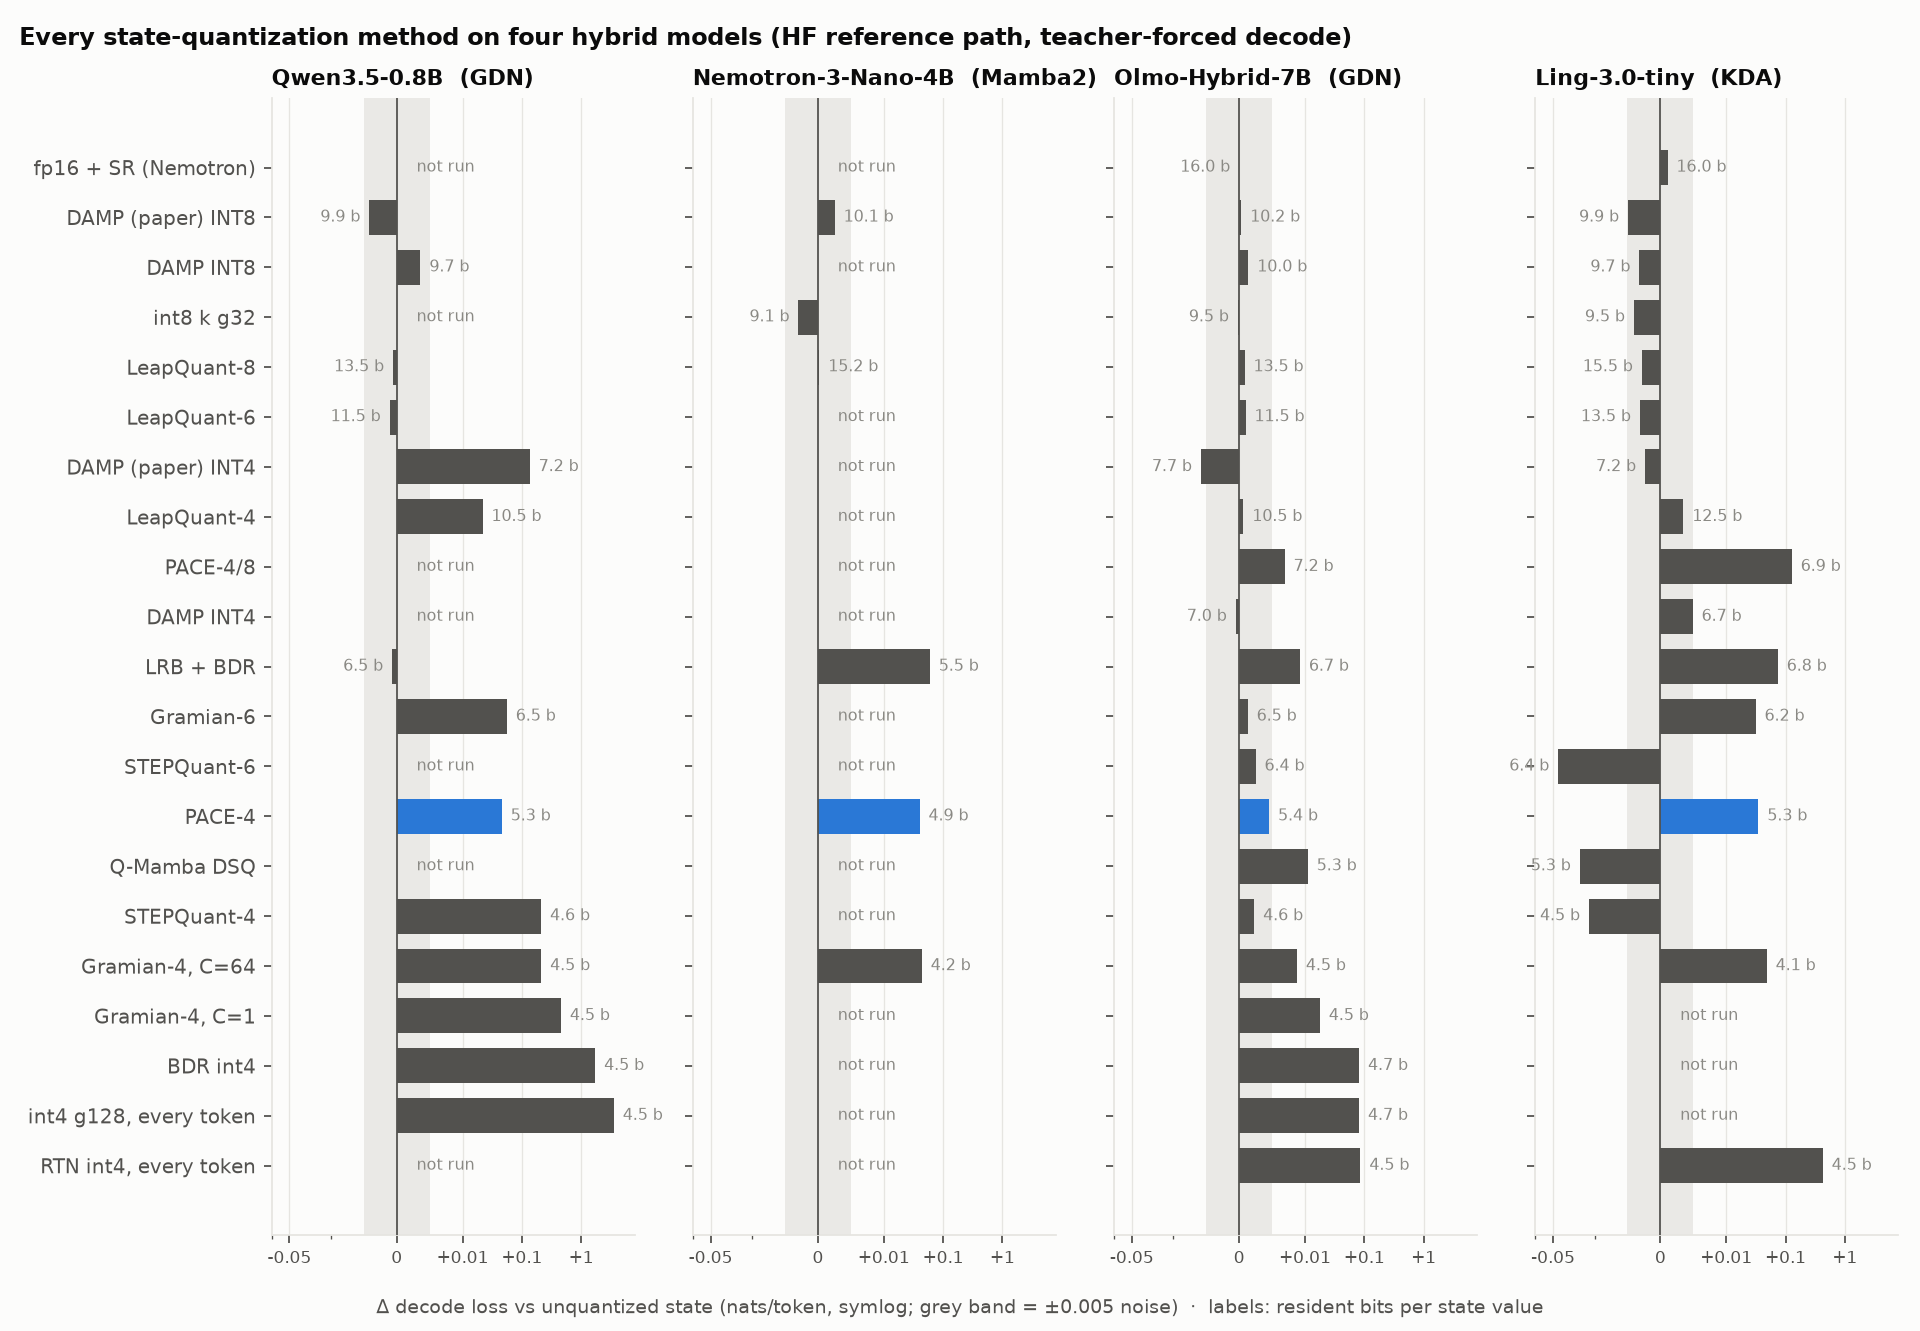
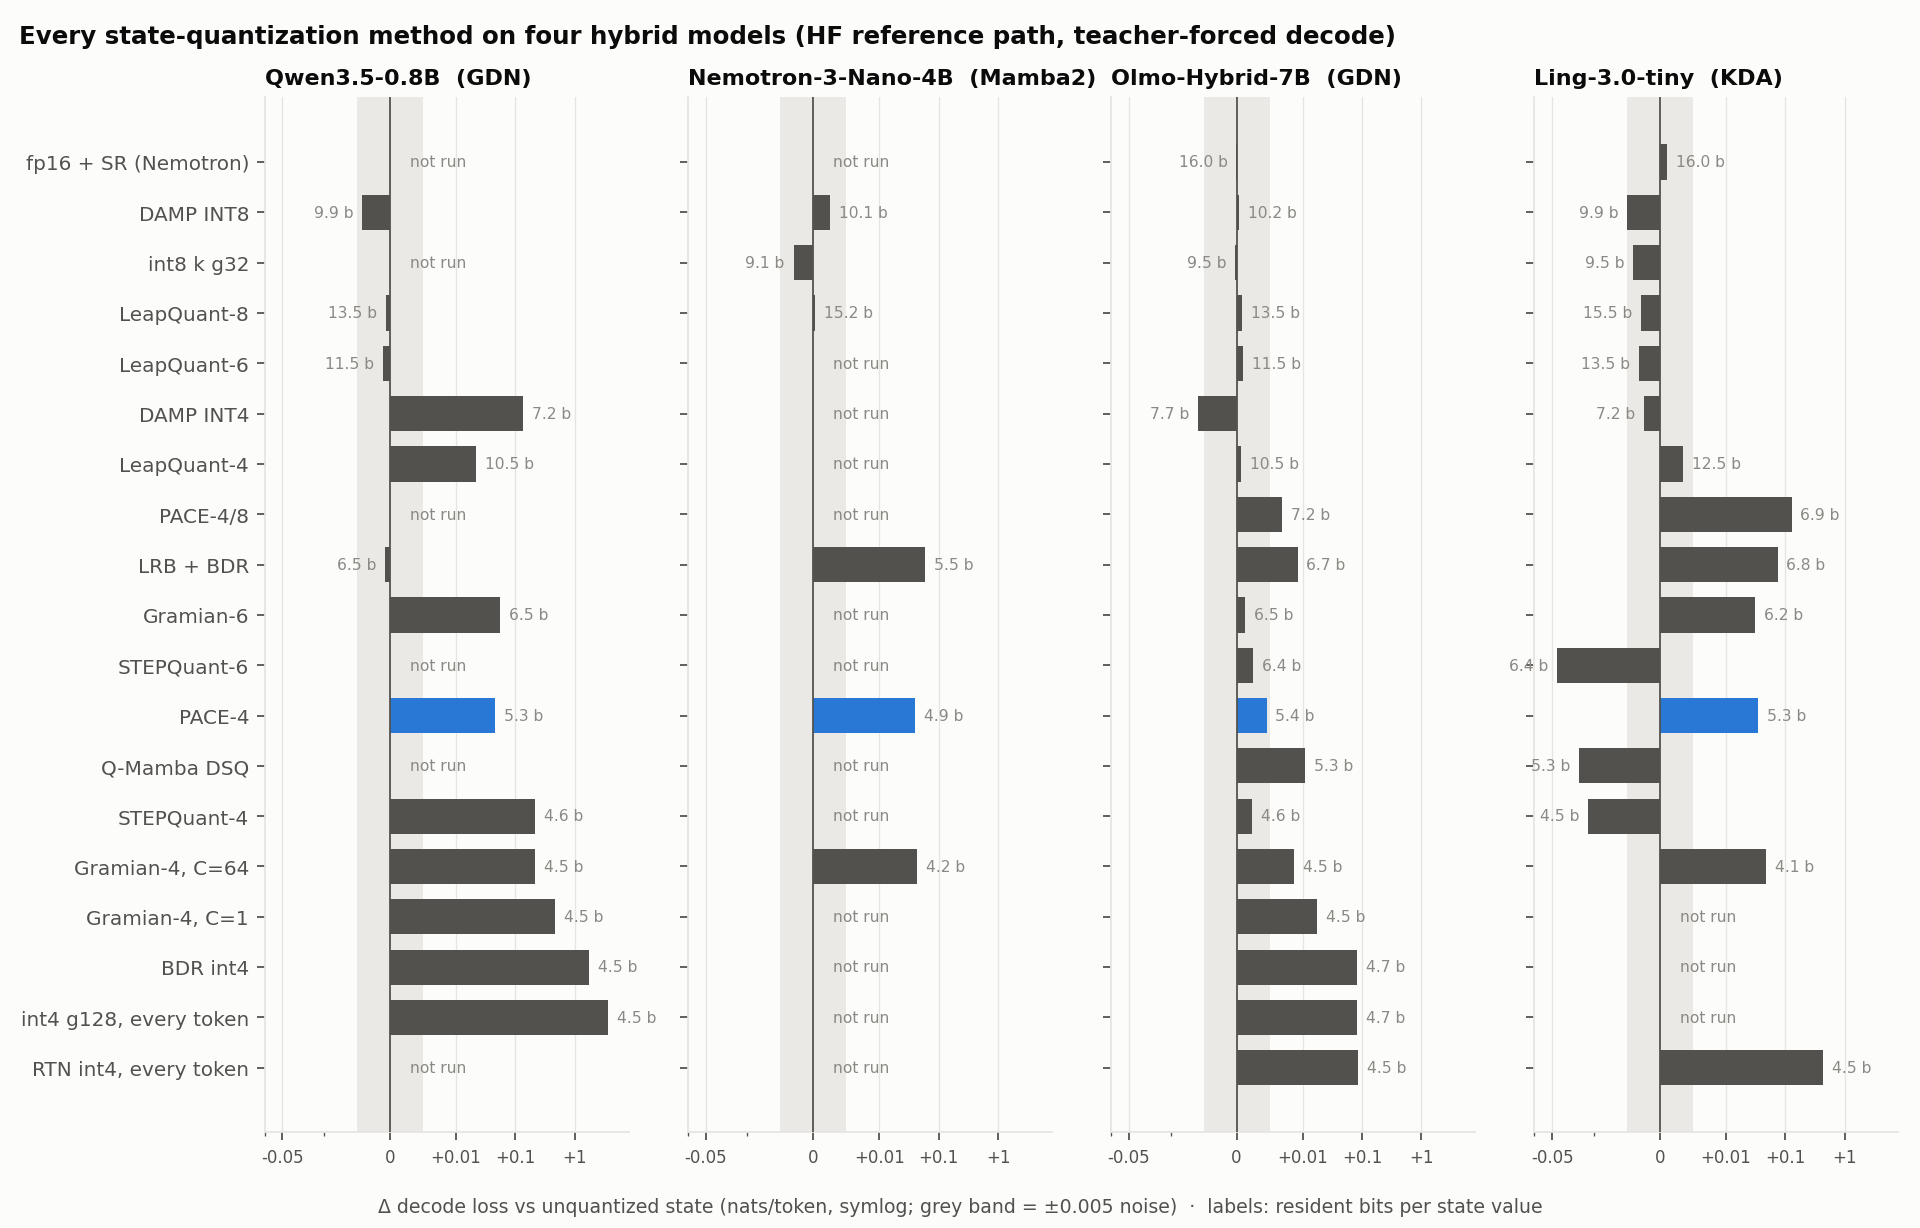
Remove the PACE-evaluation DAMP presets (damp_int8 / damp_int4); DAMP is damp_paper_int8 / damp_paper_int4
One interface per method: the harness configuration of DAMP used for the PACE tables was a second
DAMP preset next to the paper's recipe. ChannelProtect stays as a building block; the PACE oracle
test builds the harness configuration from it directly.

diff --git a/src/statequant/presets.py b/src/statequant/presets.py
@@ -15,7 +15,7 @@ prompt's keys/values, and calibration statistics are taken with the harness's ca
 """
 from __future__ import annotations
 
-from .methods import DSQ, ChannelProtect, HeadMix, Uniform
+from .methods import DSQ, HeadMix, Uniform
 from .quantizer import FloatCast, Identity, Quantizer
 from .schedule import Schedule, per_token
 from .step_quant import StepQuant
@@ -62,28 +62,6 @@ def pace48(paper: bool = True, frac: float = 0.25):
     return _with(m, Schedule(prefill=256, decode=8, buffer_bits=4, buffer='k', buffer_in_prefill=paper))
 
 
-def damp_int8():
-    """DAMP INT8 as the PACE evaluation harness implements it (cell ``damp:8:256:g32:16:int:rtn:full`` at carry scope
-    ``damp``): 16 of 128 key channels per head in fp16, the rest affine int8 in 32-wide value-axis blocks with a
-    Hadamard rotation; prompt rounded per 256-token chunk, every generated token rounded. NOTE: this is not the DAMP
-    paper's recipe (arXiv 2608.27513 v2, App. A.1): there INT8 is symmetric with one fp32 scale and no zero point per
-    32 values, no rotation, plus calibrated value-dimension scaling and reordering ("SR") folded into the V/O
-    projections."""
-    lo = Quantizer(8, 'v', 32, affine=True, zero_point='int', rotation='hadamard')
-    m = ChannelProtect(lo, FloatCast('fp16'), k=16, cal_format=Quantizer(8, 'v', 32, affine=True, zero_point='fp'),
-                       name='DAMP INT8')
-    return _with(m, Schedule(prefill=256, decode=1, buffer_bits=0))
-
-
-def damp_int4(paper: bool = True):
-    """DAMP's construction at four bits on PACE's schedule (the like-for-like row of the paper): 32 key channels per
-    head at int8, rest int4. Paper cell ``damp:4:256:g32:32:int:rtn:full:hi8:buf8:dP8``."""
-    lo = Quantizer(4, 'v', 32, affine=True, zero_point='int', rotation='hadamard')
-    hi = Quantizer(8, 'v', 32, affine=True, zero_point='int', rotation='hadamard')
-    m = ChannelProtect(lo, hi, k=32, cal_format=Quantizer(4, 'v', 32, affine=True, zero_point='fp'), name='DAMP INT4')
-    return _with(m, Schedule(prefill=256, decode=8, buffer_bits=8, buffer='kv', buffer_in_prefill=paper))
-
-
 def qmamba_dsq(paper: bool = True, decode: int = 8):
     """Q-Mamba's DSQ quantizer (without its fine-tuning). Q-Mamba rounds every write (decode=1); the paper row runs it
     on PACE's schedule. Paper cell ``dsq:4:256:dP8:buf8``."""
@@ -109,8 +87,7 @@ def stepquant(bits: int = 4, pivots: int | None = None, prefill: str = 'token', 
     return _with(StepQuant(bits, pivots), sch)
 
 
-PRESETS = {'fp32': full_precision, 'rtn': rtn, 'pace4': pace4, 'pace48': pace48, 'damp_int8': damp_int8,
-           'damp_int4': damp_int4, 'qmamba_dsq': qmamba_dsq, 'nemotron': nemotron,
+PRESETS = {'fp32': full_precision, 'rtn': rtn, 'pace4': pace4, 'pace48': pace48, 'qmamba_dsq': qmamba_dsq, 'nemotron': nemotron,
            'stepquant4': lambda: stepquant(4), 'stepquant6': lambda: stepquant(6),
            'stepquant4_chunk': lambda: stepquant(4, prefill='chunk'),
            'stepquant6_chunk': lambda: stepquant(6, prefill='chunk')}

diff --git a/docs/figures/make_figures.py b/docs/figures/make_figures.py
@@ -22,15 +22,15 @@ MODELS = ['Qwen3.5-0.8B', 'Nemotron-3-Nano-4B', 'Olmo-Hybrid-7B', 'Ling-3.0-tiny
 FAMILY = {'Qwen3.5-0.8B': 'GDN', 'Qwen3.5-4B': 'GDN', 'Nemotron-3-Nano-4B': 'Mamba2', 'Olmo-Hybrid-7B': 'GDN',
           'Ling-3.0-tiny': 'KDA'}
 LABEL = {
-    'damp_paper_int8': 'DAMP (paper) INT8', 'damp_int8': 'DAMP INT8', 'leapquant8': 'LeapQuant-8', 'int8k': 'int8 k g32',
-    'leapquant6': 'LeapQuant-6', 'damp_paper_int4': 'DAMP (paper) INT4', 'leapquant4': 'LeapQuant-4',
-    'pace48': 'PACE-4/8', 'damp_int4': 'DAMP INT4', 'lrb_bdr': 'LRB + BDR', 'gramian6': 'Gramian-6',
+    'damp_paper_int8': 'DAMP INT8', 'leapquant8': 'LeapQuant-8', 'int8k': 'int8 k g32',
+    'leapquant6': 'LeapQuant-6', 'damp_paper_int4': 'DAMP INT4', 'leapquant4': 'LeapQuant-4',
+    'pace48': 'PACE-4/8', 'lrb_bdr': 'LRB + BDR', 'gramian6': 'Gramian-6',
     'stepquant6': 'STEPQuant-6', 'nemotron': 'fp16 + SR (Nemotron)', 'pace4': 'PACE-4', 'qmamba_dsq': 'Q-Mamba DSQ',
     'stepquant4': 'STEPQuant-4', 'gramian4_c64': 'Gramian-4, C=64', 'gramian4': 'Gramian-4, C=1',
     'bdr_int4': 'BDR int4', 'int4_g128': 'int4 g128, every token', 'rtn': 'RTN int4, every token',
 }
-ORDER = ['nemotron', 'damp_paper_int8', 'damp_int8', 'int8k', 'leapquant8', 'leapquant6', 'damp_paper_int4',
-         'leapquant4', 'pace48', 'damp_int4', 'lrb_bdr', 'gramian6', 'stepquant6', 'pace4', 'qmamba_dsq',
+ORDER = ['nemotron', 'damp_paper_int8', 'int8k', 'leapquant8', 'leapquant6', 'damp_paper_int4',
+         'leapquant4', 'pace48', 'lrb_bdr', 'gramian6', 'stepquant6', 'pace4', 'qmamba_dsq',
          'stepquant4', 'gramian4_c64', 'gramian4', 'bdr_int4', 'int4_g128', 'rtn']
 LINTHRESH, NOISE = 0.01, 0.005
 

diff --git a/src/statequant/__init__.py b/src/statequant/__init__.py
@@ -1,7 +1,7 @@
 """statequant: recurrent-state quantization for gated-delta (linear attention / hybrid) language models.
 
     import statequant as sq
-    q = sq.pace48()                          # or sq.pace4(), sq.damp_int8(), sq.qmamba_dsq(), sq.nemotron(), sq.rtn(4),
+    q = sq.pace48()                          # or sq.pace4(), sq.damp_paper_int8(), sq.qmamba_dsq(), sq.nemotron(), sq.rtn(4),
                                              # sq.stepquant(4)
     sq.calibrate(model, q, calib_ids)        # only methods with a fitted allocation need this
     with sq.apply(model, q):                 # the method's own schedule; or sq.apply(model, q, sq.Schedule(...))
@@ -13,7 +13,7 @@ schedules (Schedule, per_token, periodic).
 """
 from .methods import DSQ, ChannelProtect, HeadMix, StateQuantizer, Uniform, as_method
 from .patch import apply, calibrate, find_layers, layer_families, set_positions
-from .presets import (PRESETS, damp_int4, damp_int8, full_precision, nemotron, pace4, pace48, qmamba_dsq, rtn,
+from .presets import (PRESETS, full_precision, nemotron, pace4, pace48, qmamba_dsq, rtn,
                       stepquant)
 from .step_quant import StepQuant
 from . import methods_ext  # noqa: F401  (BDR/LRB, LeapQuant, GramianAlloc, DampPaper)

diff --git a/tests/test_vs_pace.py b/tests/test_vs_pace.py
@@ -90,7 +90,8 @@ def _feed(cal_ref, ours, n=6):
 
 def test_damp_scores_and_masks():
     cal = damp.DampCalibrator(8)                     # default: zp fp, value axis, no rotation
-    q = sq.damp_int8()
+    q = sq.ChannelProtect(sq.Quantizer(8, 'v', 32, affine=True, zero_point='int', rotation='hadamard'),
+                          sq.FloatCast('fp16'), k=16, cal_format=sq.Quantizer(8, 'v', 32, affine=True, zero_point='fp'))
     _feed(cal, q)
     for layer in range(2):
         ref = damp.protect_mask(cal.scores(layer, 128), 16, 'per_head')
@@ -114,5 +115,4 @@ def test_bits_accounting():
     assert sq.Quantizer(4, 'k', 32, affine=True).bits_per_value(128, 128) == 4.625          # paper: 4.625 / 8.75
     assert sq.Quantizer(8, 'k', 32, affine=True).bits_per_value(128, 128) == 8.75
     m = sq.pace48()
-    assert m.bits_per_value(128, 128) == 0.25 * 8.75 + 0.75 * 4.625                       # 5.656, = DAMP INT4
-    assert abs(sq.damp_int4().bits_per_value(128, 128) - 5.65625) < 1e-9
+    assert m.bits_per_value(128, 128) == 0.25 * 8.75 + 0.75 * 4.625                       # 5.656

diff --git a/examples/presets_loss.py b/examples/presets_loss.py
@@ -50,7 +50,7 @@ def main():
     p.add_argument('--decode-windows', type=int, default=0, help='windows for the decode loss (0: skip)')
     p.add_argument('--prompt', type=int, default=512)
     p.add_argument('--decode', type=int, default=512)
-    p.add_argument('--presets', default='none,fp32,rtn,nemotron,qmamba_dsq,damp_int8,damp_int4,pace4,pace48')
+    p.add_argument('--presets', default='none,fp32,rtn,nemotron,qmamba_dsq,damp_paper_int8,damp_paper_int4,pace4,pace48')
     p.add_argument('--json', default=None, help='append one JSON line per preset to this file')
     a = p.parse_args()
     from datasets import load_dataset

diff --git a/docs/results.md b/docs/results.md
@@ -20,7 +20,6 @@ Loss deltas are against the unquantized model on the same windows (nats / token)
 |---|---:|---:|---:|---:|---:|
 | `pace4` | -0.0015 | +0.0457 | 4.250 | 5.281 | 5.281 |
 | `stepquant4` | +0.1953 | +0.2107 | 4.613 | 4.613 | 4.613 |
-| `damp_int8` | +0.0003 | +0.0036 | 9.656 | 9.656 | 9.656 |
 | `damp_paper_int8` | +0.0000 | -0.0042 | 9.875 | 9.875 | 9.875 |
 | `damp_paper_int4` | +0.0000 | +0.1355 | 7.250 | 7.250 | 7.250 |
 | `int4_g128` | +2.1353 | +3.5579 | 4.500 | 4.500 | 4.500 |
@@ -66,8 +65,6 @@ rounding (e.g. the negative decode deltas).
 | `pace4` | -0.0006 | +0.0045 | 4.333 | 5.361 | 5.361 |
 | `int8k` | +0.0002 | -0.0002 | 8.500 | 9.528 | 9.528 |
 | `pace48` | +0.0025 | +0.0069 | 5.725 | 7.246 | 7.246 |
-| `damp_int8` | -0.0003 | +0.0014 | 9.958 | 9.958 | 9.958 |
-| `damp_int4` | -0.0003 | -0.0005 | 6.000 | 7.028 | 7.028 |
 | `qmamba_dsq` | +0.0006 | +0.0111 | 4.250 | 5.278 | 5.278 |
 | `rtn` | +0.0607 | +0.0860 | 4.500 | 4.500 | 4.500 |
 | `nemotron` | -0.0001 | -0.0000 | 16.000 | 16.000 | 16.000 |
@@ -99,8 +96,6 @@ the decode buffer), peak. `examples/presets_loss.py --repo inclusionAI/Ling-3.0-
 | `rtn` | +0.2825 | +0.4245 | 4.500 | 4.500 | 4.500 |
 | `nemotron` | +0.0107 | +0.0011 | 16.000 | 16.000 | 16.000 |
 | `qmamba_dsq` | -0.0041 | -0.0178 | 4.250 | 5.281 | 5.281 |
-| `damp_int8` | +0.0000 | -0.0032 | 9.656 | 9.656 | 9.656 |
-| `damp_int4` | +0.0046 | +0.0049 | 5.656 | 6.688 | 6.688 |
 | `pace4` | +0.0109 | +0.0349 | 4.250 | 5.281 | 5.281 |
 | `pace48` | +0.0748 | +0.1274 | 5.656 | 6.930 | 6.930 |
 | `int8k` | +0.0016 | -0.0040 | 8.500 | 9.531 | 9.531 |
@@ -120,7 +115,7 @@ Notes on the table:
   `--calib-seq 2048`. That run's eval windows start after the calibration tokens and are different windows: its
   unquantized reference is prompt 2.6710 / decode 2.3309.
 - A Δ prompt of exactly 0 is by construction: LeapQuant rounds decode tokens and the prompt end only, and DampPaper
-  keeps fp32 inside each prefill chunk (8192 tokens). DAMP INT8's +0.0000 is +2.4e-5.
+  keeps fp32 inside each prefill chunk (8192 tokens).
 - Several rows are below the unquantized model: `qmamba_dsq`, `int8k` decode, `stepquant4/6`, DampPaper decode.
   - That is a property of these windows (4 x 1024 prompt tokens, 4 x 256 decode tokens), not a measurement of
     improvement.

diff --git a/README.md b/README.md
@@ -28,7 +28,7 @@ pip install "statequant[vllm]"      # + vLLM, for the serving plugin
 ```python
 import statequant as sq
 
-q = sq.pace4()                           # or sq.pace48(), sq.damp_int8(), sq.lrb_bdr(), sq.leapquant(8), ...
+q = sq.pace4()                           # or sq.pace48(), sq.damp_paper_int8(), sq.lrb_bdr(), sq.leapquant(8), ...
 sq.calibrate(model, q, calib_ids)        # only for methods with a fitted allocation
 with sq.apply(model, q):                 # the method's published rounding schedule
     out = model.generate(ids, max_new_tokens=256)
@@ -46,8 +46,7 @@ STATEQUANT_VLLM=pace4 vllm serve Qwen/Qwen3.5-4B --no-enable-prefix-caching
 | method | preset | reference |
 |---|---|---|
 | PACE-4, PACE-4/8 | `pace4()`, `pace48()` | Haller et al., [arXiv 2610.29545](https://arxiv.org/abs/2610.29545) |
-| DAMP (paper recipe) | `damp_paper_int8()`, `damp_paper_int4()` | Zhang et al., [arXiv 2608.27513](https://arxiv.org/abs/2608.27513) |
-| DAMP (PACE evaluation variant) | `damp_int8()`, `damp_int4()` | as configured in [PACE](https://arxiv.org/abs/2610.29545) |
+| DAMP | `damp_paper_int8()`, `damp_paper_int4()` | Zhang et al., [arXiv 2608.27513](https://arxiv.org/abs/2608.27513) |
 | STEPQuant | `stepquant(4)`, `stepquant(6)` | Yao et al., [arXiv 2609.38169](https://arxiv.org/abs/2609.38169); [code](https://github.com/Dreamer-Toby/STEPQuant) |
 | Q-Mamba DSQ | `qmamba_dsq()` | Chen et al., [Findings of ACL 2025](https://aclanthology.org/2025.findings-acl.551) |
 | LRB + BDR (Low-Rank Bypass, Bounded Directional Rounding) | `lrb_bdr()`, `bdr_int4()` | Li et al., [arXiv 2610.15709](https://arxiv.org/abs/2610.15709) |

diff --git a/docs/methods.md b/docs/methods.md
@@ -10,7 +10,6 @@ per sequence.
 | preset | method | source |
 |---|---|---|
 | `pace4()`, `pace48()` | PACE-4 (int4 key-axis groups, decode buffer, periodic re-rounding); PACE-4/8 (int8 Hadamard heads by a calibrated head score) | PACE, [arXiv 2610.29545](https://arxiv.org/abs/2610.29545) |
-| `damp_int8()`, `damp_int4()` | DAMP-style protected key channels (`ChannelProtect`), as configured in the PACE evaluation harness | [PACE](https://arxiv.org/abs/2610.29545) evaluation harness |
 | `damp_paper_int8()`, `damp_paper_int4()` | DAMP's own recipe: fp16 key channels, INT8 sym / INT4 asym g32, calibrated value scaling + reordering, SR | DAMP, [arXiv 2608.27513](https://arxiv.org/abs/2608.27513) v2 |
 | `qmamba_dsq()` | decoupled scale quantization (`DSQ`) | Q-Mamba, [Findings of ACL 2025](https://aclanthology.org/2025.findings-acl.551) |
 | `nemotron()` | fp16 state with stochastic rounding, every token | Nemotron 3 Super, [arXiv 2604.12374](https://arxiv.org/abs/2604.12374) |
@@ -30,7 +29,7 @@ Per-model quality and bits per value: [results](results.md).
 ```python
 import statequant as sq
 
-q = sq.pace48()                          # PACE-4/8; also sq.pace4(), sq.damp_int8(), sq.damp_int4(),
+q = sq.pace48()                          # PACE-4/8; also sq.pace4(), sq.damp_paper_int8(),
                                          # sq.qmamba_dsq(), sq.nemotron(), sq.rtn(bits, axis, group)
 sq.calibrate(model, q, calib_ids)        # only methods with a fitted allocation (HeadMix, ChannelProtect)
 with sq.apply(model, q):                 # the method's published schedule, or sq.apply(model, q, sq.Schedule(...))

diff --git a/docs/models.md b/docs/models.md
@@ -58,9 +58,8 @@ packed kernels (padded key tiles, ragged key groups; see the packed decode path 
 (`integrations/vllm_olmo.py`).
 
 Head-dim effects on the formats: PACE-4's key groups of 64 are ragged on 96 (4.33 instead of 4.25 b/value); DAMP keeps
-16 / 32 protected key channels, i.e. 1/6 / 1/3 of d_k (`damp_int8` / `damp_int4` 9.96 / 6.00 b/value vs 9.66 /
-5.66 on Qwen's 128; `damp_paper_int8` 10.17 vs 9.875); the INT4 g128 grid of `int4_g128` / `bdr_int4` / LRB uses one
-group per value column (96 < 128: 4.67 b/value); Hadamard rotations (PACE-4/8's int8 heads, DAMP) are block diagonal (32 on d_k, 64 on d_v); PACE-4/8
+16 protected key channels, i.e. 1/6 of d_k (`damp_paper_int8` 10.17 vs 9.875 b/value on Qwen's 128); the INT4 g128 grid of `int4_g128` / `bdr_int4` / LRB uses one
+group per value column (96 < 128: 4.67 b/value); Hadamard rotations (PACE-4/8's int8 heads) are block diagonal (32 on d_k, 64 on d_v); PACE-4/8
 puts 8 of 30 heads per layer at int8 (frac 0.25 rounds up); STEPQuant scales its 32 fp16 pivots of 2,304 heads to 10
 of 720. LeapQuant and DAMP's paper recipe keep the prompt in full precision, so their prompt delta is zero by
 construction.
